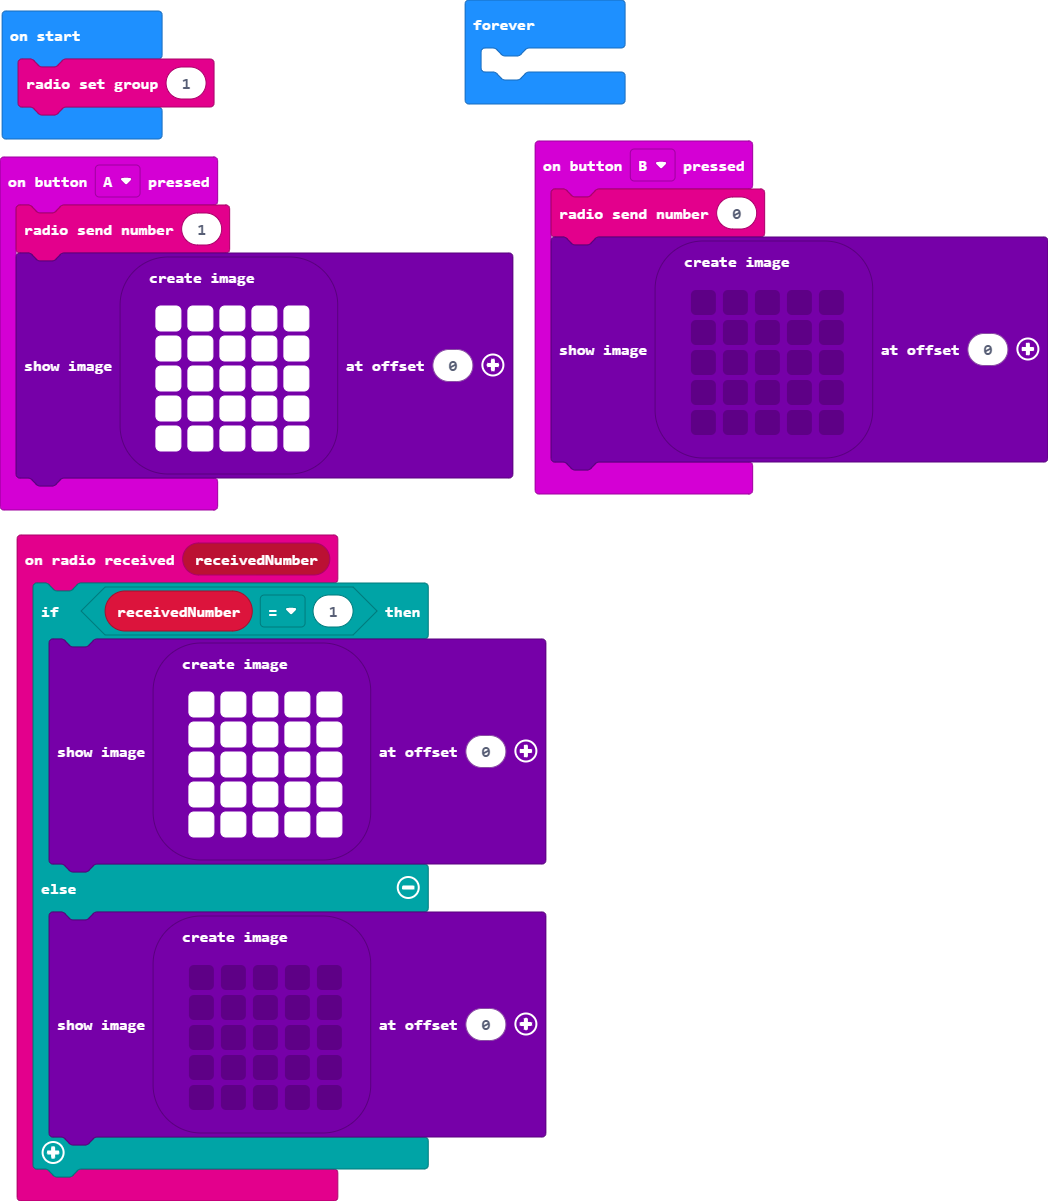
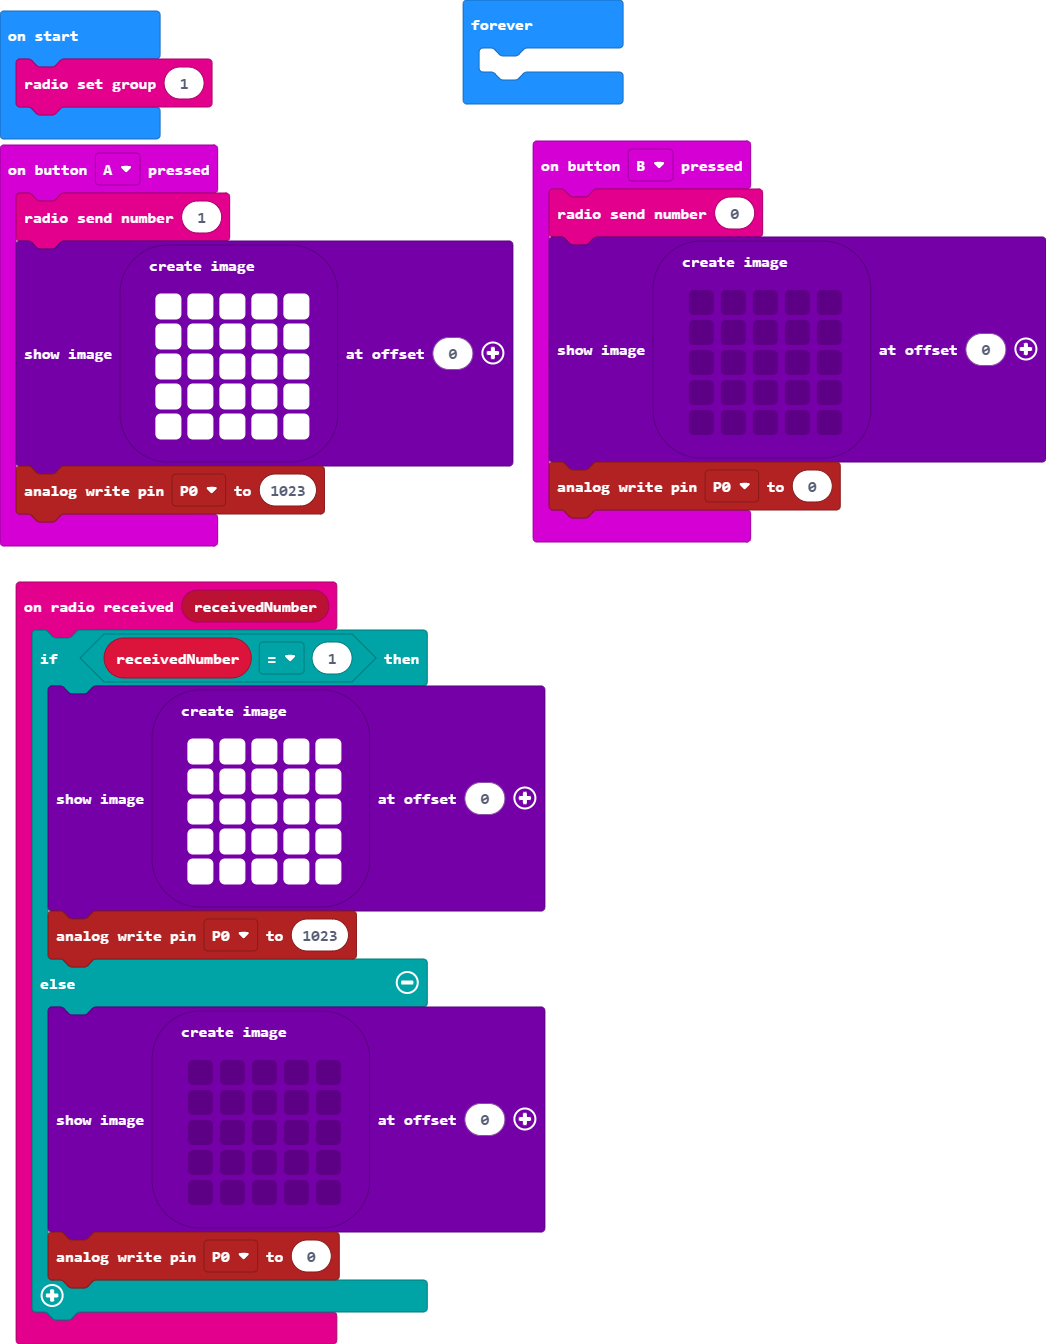
Update main.blocks, main.ts

diff --git a/main.ts b/main.ts
@@ -7,6 +7,7 @@ radio.onReceivedNumber(function (receivedNumber) {
             # # # # #
             # # # # #
             `).showImage(0)
+        pins.analogWritePin(AnalogPin.P0, 1023)
     } else {
         images.createImage(`
             . . . . .
@@ -15,6 +16,7 @@ radio.onReceivedNumber(function (receivedNumber) {
             . . . . .
             . . . . .
             `).showImage(0)
+        pins.analogWritePin(AnalogPin.P0, 0)
     }
 })
 input.onButtonPressed(Button.A, function () {
@@ -26,6 +28,7 @@ input.onButtonPressed(Button.A, function () {
         # # # # #
         # # # # #
         `).showImage(0)
+    pins.analogWritePin(AnalogPin.P0, 1023)
 })
 input.onButtonPressed(Button.B, function () {
     radio.sendNumber(0)
@@ -36,6 +39,7 @@ input.onButtonPressed(Button.B, function () {
         . . . . .
         . . . . .
         `).showImage(0)
+    pins.analogWritePin(AnalogPin.P0, 0)
 })
 radio.setGroup(1)
 basic.forever(function () {
